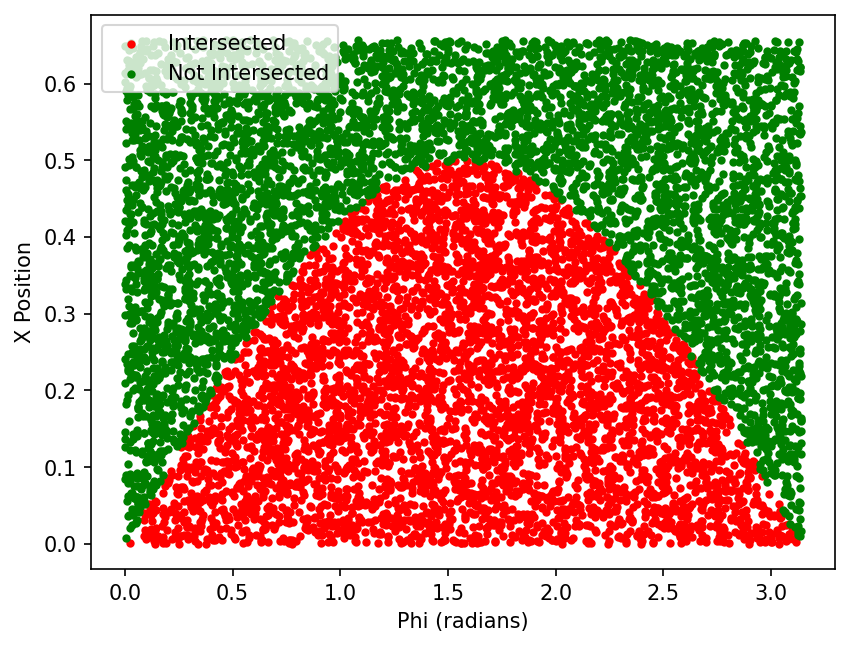
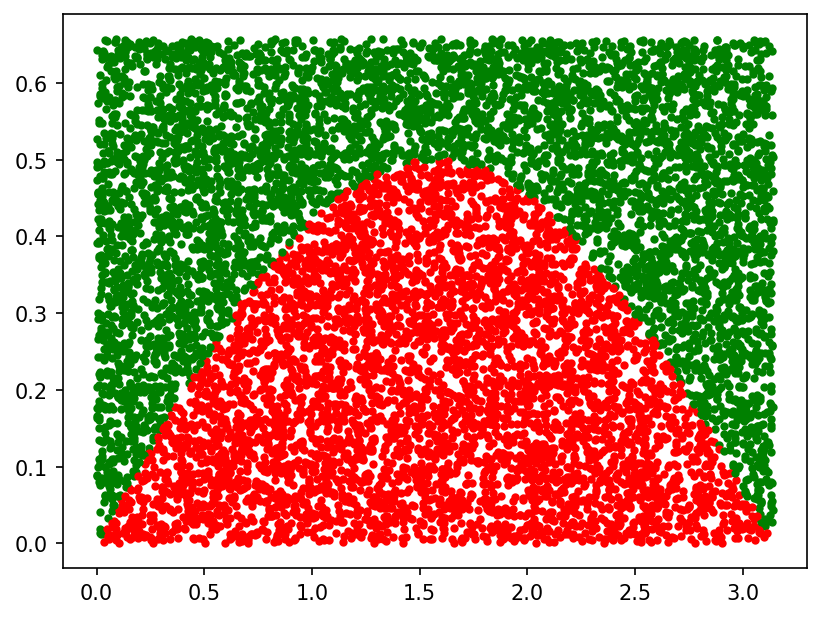
correct the formula

diff --git a/Buffon-s-Needle.py b/Buffon-s-Needle.py
@@ -27,7 +27,7 @@ phi = np.random.rand(1, n) * math.pi
 def test(times):
     global count
     for i in trange(0, times):
-        if x[0][i] <= 1 / 2 * math.sin(phi[0][i]):
+        if x[0][i] <= l / 2 * math.sin(phi[0][i]):
             count = count + 1
             plt.scatter(phi[0][i] ,x[0][i] ,c='r',marker='.')
         else:

diff --git a/Buffon-s-Needle2.py b/Buffon-s-Needle2.py
@@ -22,7 +22,7 @@ green_phi, green_x = [], []
 def test(times):
     global count
     for i in range(0, times):
-        if x[i] <= 1 / 2 * math.sin(phi[i]):
+        if x[i] <= l / 2 * math.sin(phi[i]):
             count += 1
             red_phi.append(phi[i])
             red_x.append(x[i])
